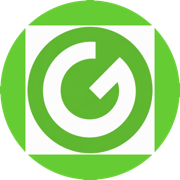
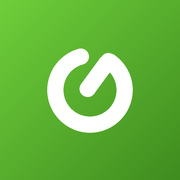
Make Gaia install properly on a home screen
The icon was the visible failure. Every PNG carried an alpha channel and 21% of
the canvas was transparent, so iOS composited it onto black — the black tile in
the screenshot — and the artwork itself had a white box baked behind the mark.

Icons are now full-bleed and opaque: brand gradient edge to edge, white mark,
no rounded corners of its own since iOS applies the mask. A separate maskable
icon carries a smaller mark so a circular crop of the inner 80% cannot clip it.

I traced the mark in PIL and it came out 19% small, because PIL draws an arc's
width inward from the bounding box rather than centred on the radius. Rather
than eyeball it, I rendered the real vector in the browser and measured both:
the corrected icon is within 0.4% of it on width and 0.0% on height.

Add to Home Screen now exists. Android Chrome gets the real install prompt;
iOS Safari has no such API, so it gets the two taps written out — the same
approach other installable web apps take. It stays quiet in an installed
window, in an in-app browser that cannot install, and once dismissed. On iOS it
waits for a second visit rather than interrupting a first-time visitor.

Layout: the last home card sat under the floating tab bar. The fix needed
`body.gaia-v2 main.gaia-main.gaia-main--today` to outrank `body.gaia-v2
.gaia-main`, which was quietly winning on specificity. Added a short scrim so
content scrolling under the bar fades rather than being sliced mid-word.
[…]

diff --git a/gaia-install.js b/gaia-install.js
@@ -1,0 +1,124 @@
+/** Gaia — "Add to Home Screen".
+ *
+ * The app is already a PWA; what was missing is that nobody was ever told. On
+ * Android Chrome the browser hands us an install prompt we can trigger. iOS
+ * Safari has no such API at all, so the only honest thing is to show the two
+ * taps a person needs — the same approach Snapp and other installable web apps
+ * take.
+ *
+ * It stays quiet unless it can actually help: never in an installed window,
+ * never in an in-app browser that cannot install, and never again once someone
+ * has dismissed it.
+ */
+(function () {
+  'use strict';
+
+  const DISMISSED = 'gaia:install-dismissed';
+  const SEEN_AT = 'gaia:install-seen';
+
+  function isStandalone() {
+    try {
+      return window.matchMedia('(display-mode: standalone)').matches
+        || window.navigator.standalone === true;
+    } catch (_) { return false; }
+  }
+
+  const ua = navigator.userAgent || '';
+  const isIOS = /iPad|iPhone|iPod/.test(ua)
+    // iPadOS 13+ reports itself as a Mac, and is only distinguishable by touch.
+    || (/Macintosh/.test(ua) && navigator.maxTouchPoints > 1);
+  const isSafari = /Safari/.test(ua) && !/CriOS|FxiOS|EdgiOS|OPiOS/.test(ua);
+  // Instagram, Facebook and similar wrappers cannot install anything, so
+  // offering would only frustrate.
+  const inAppBrowser = /FBAN|FBAV|Instagram|Line|Twitter|WebView/i.test(ua);
+
+  let deferredPrompt = null;
+
+  function dismissed() {
+    try { return localStorage.getItem(DISMISSED) === '1'; } catch (_) { return false; }
+  }
+  function remember(key, value) {
+    try { localStorage.setItem(key, value); } catch (_) { /* private mode */ }
+  }
+
+  function card(inner) {
+    const el = document.createElement('div');
+    el.className = 'g-install';
+    el.setAttribute('role', 'dialog');
+    el.setAttribute('aria-label', 'Install Gaia Healers');
+    el.innerHTML = '<div class="g-install__panel">' + inner + '</div>';
+    document.body.appendChild(el);
+    el.querySelectorAll('[data-install-close]').forEach((b) => b.addEventListener('click', () => {
+      remember(DISMISSED, '1');
+      el.remove();
+    }));
+    return el;
+  }
+
+  function showIosGuide() {
+    const el = card(
+      '<div class="g-install__head">'
+      + '<img class="g-install__icon" src="assets/apple-touch-icon.png" alt="" width="52" height="52" />'
+      + '<div><p class="g-install__title">Keep Gaia on your home screen</p>'
+      + '<p class="g-install__sub">Opens full screen, like an app.</p></div></div>'
+      + '<ol class="g-install__steps">'
+      + '<li>Tap <b>Share</b> in the Safari toolbar</li>'
+      + '<li>Choose <b>Add to Home Screen</b></li>'
+      + '</ol>'
+      + '<div class="g-install__actions">'
+      + '<button type="button" class="g-btn g-btn--ghost g-btn--sm" data-install-close>Not now</button>'
+      + '</div>',
+    );
+    return el;
+  }
+
+  function showPrompt() {
+    card(
+      '<div class="g-install__head">'
+      + '<img class="g-install__icon" src="assets/icon-192.png" alt="" width="52" height="52" />'
+      + '<div><p class="g-install__title">Install Gaia Healers</p>'
+      + '<p class="g-install__sub">Full screen, and one tap from your home screen.</p></div></div>'
+      + '<div class="g-install__actions">'
+      + '<button type="button" class="g-btn g-btn--primary g-btn--sm" data-install-go>Install</button>'
+      + '<button type="button" class="g-btn g-btn--ghost g-btn--sm" data-install-close>Not now</button>'
+      + '</div>',
+    ).querySelector('[data-install-go]').addEventListener('click', async function () {
+      this.disabled = true;
+      const prompt = deferredPrompt;
+      deferredPrompt = null;
+      if (!prompt) return;
+      prompt.prompt();
+      const choice = await prompt.userChoice.catch(() => null);
+      // Either way the card has done its job.
+      remember(DISMISSED, choice && choice.outcome === 'accepted' ? '1' : '1');
+      document.querySelector('.g-install')?.remove();
+    });
+  }
+
+  // Android/desktop Chrome: the browser tells us when it is installable.
+  window.addEventListener('beforeinstallprompt', (event) => {
+    event.preventDefault();
+    deferredPrompt = event;
+    if (!isStandalone() && !dismissed()) setTimeout(showPrompt, 2500);
+  });
+
+  window.addEventListener('appinstalled', () => {
+    remember(DISMISSED, '1');
+    document.querySelector('.g-install')?.remove();
+  });
+
+  document.addEventListener('DOMContentLoaded', () => {
+    if (isStandalone() || dismissed() || inAppBrowser) return;
+    // iOS never fires beforeinstallprompt, so the guide is the only route.
+    // Held back until a second visit: a first-time visitor has not decided
+    // they want this yet, and asking immediately is how banners get ignored.
+    if (isIOS && isSafari) {
+      let seen = 0;
+      try { seen = Number(localStorage.getItem(SEEN_AT) || 0); } catch (_) { /* ignore */ }
+      remember(SEEN_AT, String(seen + 1));
+      if (seen >= 1) setTimeout(showIosGuide, 3000);
+    }
+  });
+
+  window.GaiaInstall = { showIosGuide, isStandalone, isIOS };
+}());

diff --git a/gaia-system.css b/gaia-system.css
@@ -655,3 +655,38 @@ button.g-access.g-access--link {
   text-align:left;cursor:pointer;width:100%}
 .g-tile__open:focus-visible{outline:2px solid var(--g-accent,#A8E063);outline-offset:3px;border-radius:6px}
 @media (max-width:640px){.g-store-sheet{max-width:100%;border-radius:16px 16px 0 0;max-height:90vh}}
+
+/* ── Add to Home Screen ──
+   A quiet sheet at the bottom, above the tab bar and clear of the home
+   indicator. It only ever appears when it can actually help. */
+.g-install{position:fixed;left:0;right:0;z-index:120;
+  /* clear of the floating tab bar and the home indicator below it */
+  bottom:calc(72px + env(safe-area-inset-bottom,0px));
+  padding:0 12px;
+  display:flex;justify-content:center;pointer-events:none}
+.g-install__panel{pointer-events:auto;width:100%;max-width:420px;
+  background:var(--g-surface,#111A14);color:var(--g-text,#ECF3E9);
+  border:1px solid rgba(255,255,255,.10);border-radius:18px;padding:16px 18px;
+  box-shadow:0 18px 44px rgba(0,0,0,.5);display:flex;flex-direction:column;gap:12px;
+  animation:g-install-in .28s cubic-bezier(.2,.8,.3,1) both}
+@keyframes g-install-in{from{transform:translateY(14px);opacity:0}to{transform:none;opacity:1}}
+@media (prefers-reduced-motion:reduce){.g-install__panel{animation:none}}
+.g-install__head{display:flex;gap:12px;align-items:center}
+.g-install__icon{border-radius:12px;flex:none}
+.g-install__title{margin:0;font-weight:650;font-size:.98rem;line-height:1.3}
+.g-install__sub{margin:2px 0 0;font-size:.84rem;opacity:.72;line-height:1.35}
+.g-install__steps{margin:0;padding-left:1.15rem;display:flex;flex-direction:column;gap:6px;
+  font-size:.9rem;opacity:.9}
+.g-install__steps b{font-weight:650}
+.g-install__actions{display:flex;gap:8px;justify-content:flex-end}
+.g-install__actions .g-btn{min-height:44px;display:inline-flex;align-items:center;justify-content:center}
+
+/* ── Home: let the last card clear the floating tab bar ──
+   Needs body.gaia-v2 to outrank `body.gaia-v2 .gaia-main`, which otherwise wins
+   on specificity and leaves the final card tucked under the bar. */
+body.gaia-v2 main.gaia-main.gaia-main--today{
+  padding-bottom:calc(88px + env(safe-area-inset-bottom,0px))}
+/* A short scrim so content scrolling under the floating bar fades out instead
+   of being sliced mid-word. */
+.gaia-tabbar::before{content:"";position:absolute;left:0;right:0;bottom:100%;height:28px;
+  background:linear-gradient(to top,var(--g-bg,#0B120E),transparent);pointer-events:none}

diff --git a/home.html b/home.html
@@ -8,7 +8,7 @@
   <meta name="mobile-web-app-capable" content="yes" />
   <meta name="apple-mobile-web-app-status-bar-style" content="black-translucent" />
   <meta name="apple-mobile-web-app-title" content="Gaia Healers" />
-  <meta name="theme-color" content="#eef4ea" />
+  <meta name="theme-color" content="#07100b" />
   <meta name="description" content="Gaia Healers brings practitioner events, Academy courses, community access, bookings, and personalized wellness guidance into one mobile-first app." />
   <meta property="og:type" content="website" />
   <meta property="og:title" content="Gaia Healers" />
@@ -44,7 +44,7 @@
   <link rel="stylesheet" href="gaia-shared.css?v=20260721a" />
   <link rel="stylesheet" href="gaia-ui-v2.css?v=20260815b" />
   <link rel="stylesheet" href="vendor/phosphor/phosphor.css?v=2.1.2" />
-  <link rel="stylesheet" href="gaia-system.css?v=20260818d" />
+  <link rel="stylesheet" href="gaia-system.css?v=20260818g" />
   <link rel="stylesheet" href="gaia-reshape.css?v=20260817a" />
   <link rel="stylesheet" href="gaia-superapp.css?v=20260818a" />
 </head>
@@ -251,5 +251,6 @@
       window.addEventListener('load', function () { navigator.serviceWorker.register('/sw.js').catch(function () {}); });
     }
   </script>
+  <script src="gaia-install.js?v=20260818a" defer></script>
 </body>
 </html>

diff --git a/sw.js b/sw.js
@@ -1,4 +1,4 @@
-const CACHE_NAME = 'gaia-healers-20260818a';
+const CACHE_NAME = 'gaia-healers-20260818b';
 const APP_SHELL = [
   '/',
   '/home.html',
@@ -24,11 +24,14 @@ const APP_SHELL = [
   '/gaia-store.js',
   '/gaia-ui.js',
   '/gaia-superapp.js',
+  '/gaia-install.js',
   '/assets/gaia-mark.svg',
   '/assets/gaia-event-hero.webp',
   '/assets/gaia-chakra-meditation.webp',
   '/assets/icon-192.png',
-  '/assets/icon-512.png'
+  '/assets/icon-512.png',
+  '/assets/icon-maskable-512.png',
+  '/assets/apple-touch-icon.png'
 ];
 
 self.addEventListener('install', (event) => {
